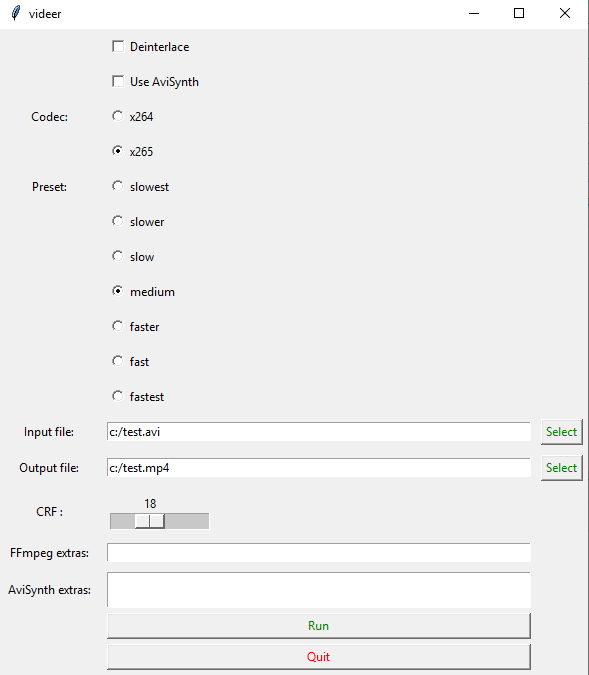
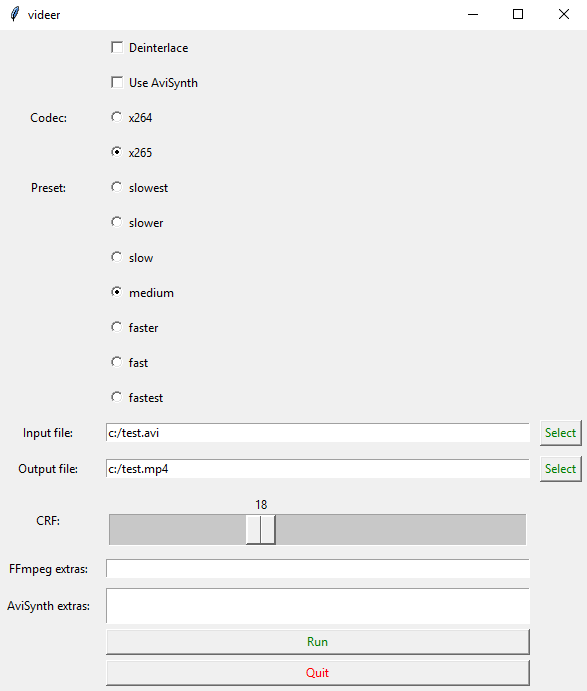
details

diff --git a/videer.py b/videer.py
@@ -109,11 +109,11 @@ class Application(tk.Frame):
         self.outfile.grid(row=12, column=1, sticky='W', padx=5)
 
         self.crf_label = tk.Label(self)
-        self.crf_label["text"] = "CRF : "
+        self.crf_label["text"] = "CRF: "
         self.crf_label.grid(row=13, column=0, sticky='', padx=5)
 
-        self.crf = tk.Scale(self, from_=0, to=51, orient=tk.HORIZONTAL)
-        self.crf.grid(row=13, column=1, sticky='W', pady=5, padx=5)
+        self.crf = tk.Scale(self, from_=0, to=51, orient=tk.HORIZONTAL, width=30)
+        self.crf.grid(row=13, column=1, sticky='WE', pady=5, padx=5)
         self.crf.set(18)
 
         self.extras_label = tk.Label(self)
